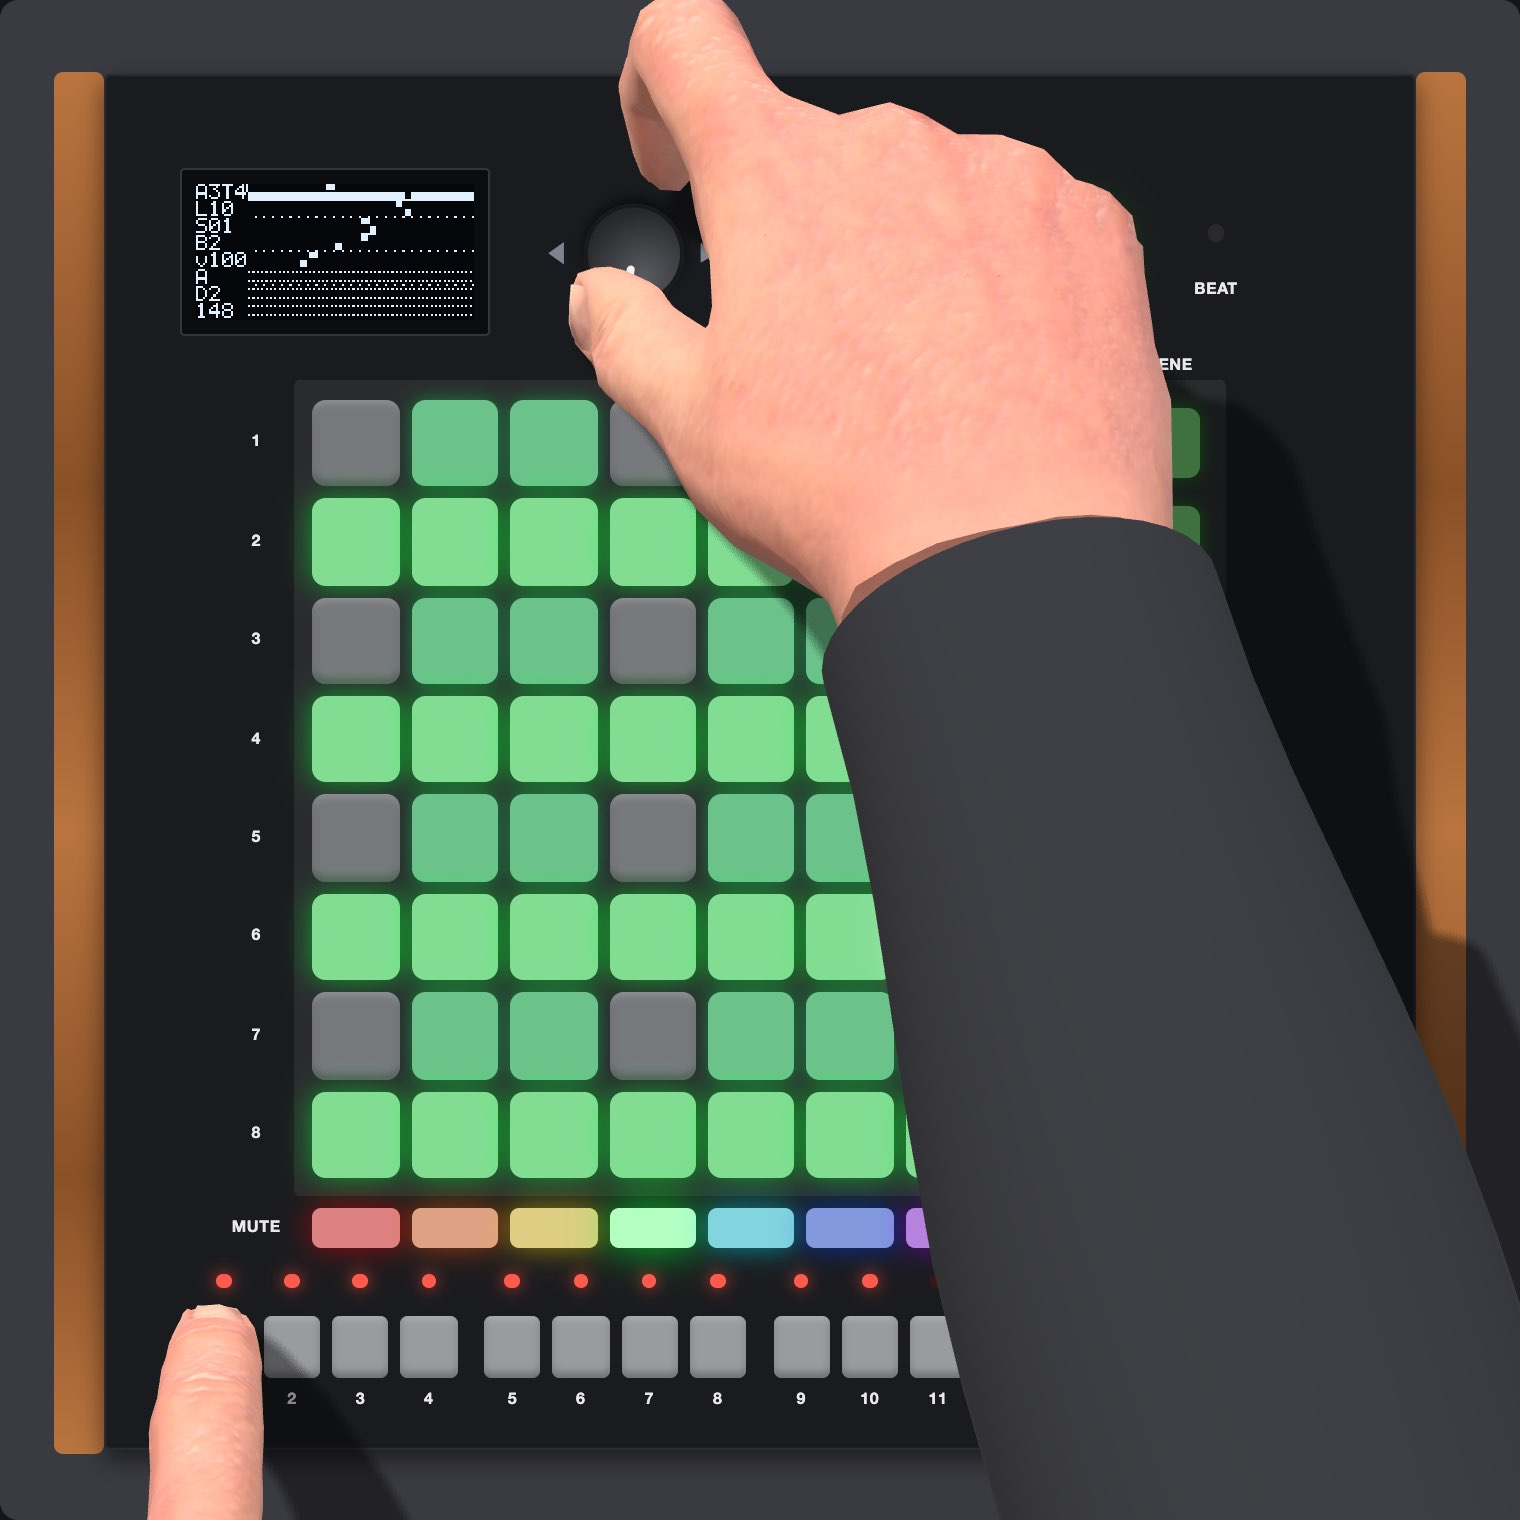
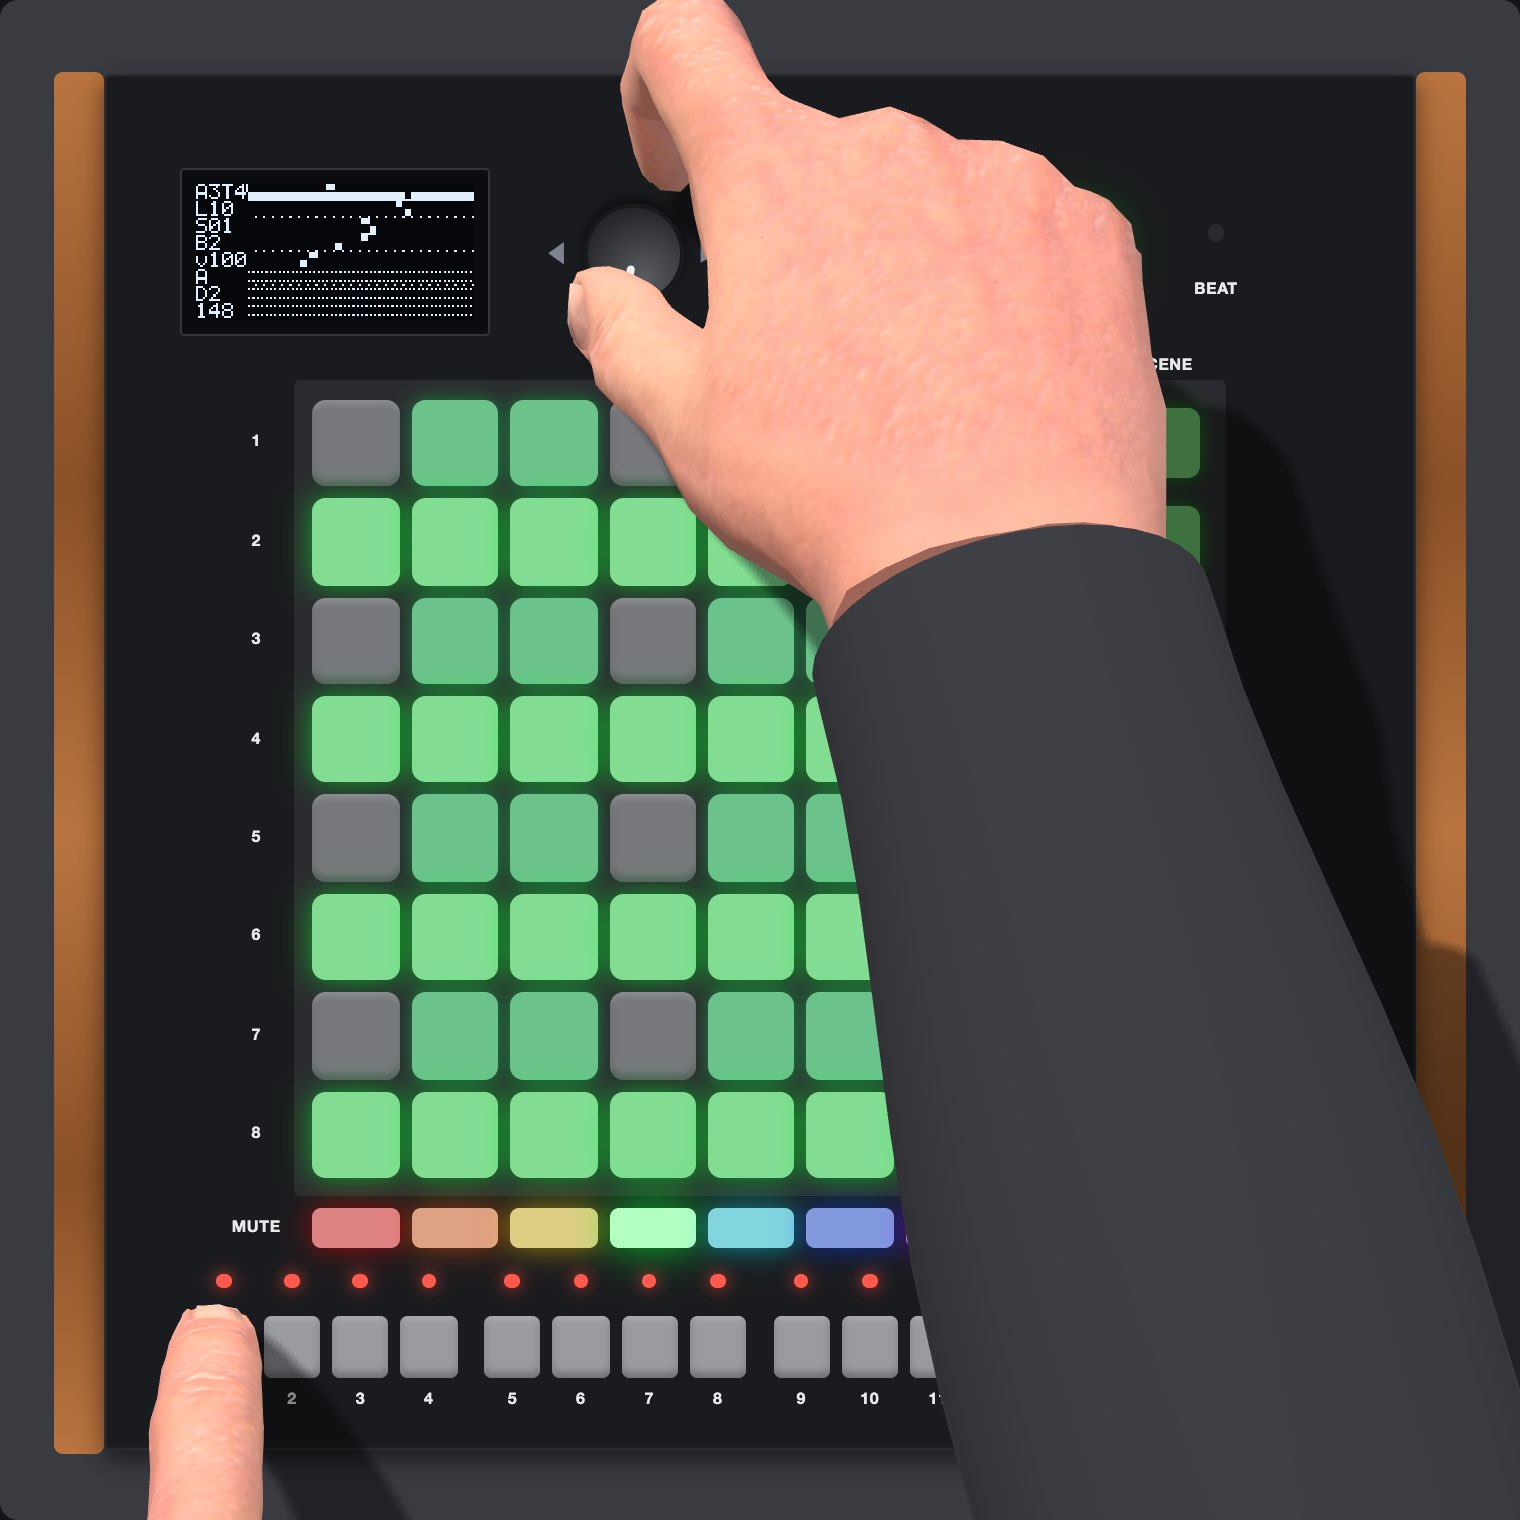
sim: hands: the frame cost and the pictures at the final code
Measured again over the same 60 s of a live set after the last fixes to
the hands: over HTTP no long task and the same frame times; from disk a
303 callback interval past 1.5 buffers in one of six runs with the hands,
none without, so the hands stay off by default there. The README gives
the new numbers, and says when the hands' build may run while the device
sounds (after a take-over or while the user plays). The hold-edit
screenshot and the GIF are recorded again at this code.

diff --git a/sim/README.md b/sim/README.md
@@ -205,8 +205,13 @@ set plays: when the box is first ticked during a set (the hands not built on
 the page yet), or the scripts arrive after "Сыграть" with the preparation
 skipped, the ring stays until the set ends or is stopped, and the hands are
 there from the next show on. Once built, unticking and ticking the box hides
-and shows them at once. A preparation and
-an idle page do not sound, so the build may run there.
+and shows them at once. The build waits for the artist's live set only:
+it may run in a preparation (silent, as it is played faster than real time)
+and on an idle page, and so also while the device sounds there, after a
+click on the panel has taken a set over (the artist stops, the sequencer
+plays on) or while the user plays the device. Its task then holds up the
+main thread once while the music plays, which may be heard (from disk the
+303s run on that thread).
 
 The checkbox "показывать руки" in the artist's card shows and hides them,
 and the browser keeps the choice. Until it is first changed it is ticked,
@@ -235,35 +240,24 @@ The frame cost was measured on an Apple M1 (headless Chrome 157, WebGL
 through ANGLE on Metal), the page at 1500 × 1000 and a pixel ratio of 2, the
 sound on, over 60 s of a live set with pad launches, two MUTE pairs and held
 steps edited with the encoder (the fw2 score, song 3), with and without the
-hands, three to six runs each:
+hands, three runs each over HTTP and six from disk:
 
 - Over HTTP the hands take 0.1 ms of the main thread per frame (median; p99
   1 ms) and draw about one frame in four. Frame times are the same with and
   without them (median 16.7 ms, p95 16.8 ms), and no task over 50 ms came in
-  that minute in any run, from disk either. The heaviest frames, 8–11 ms,
+  that minute in any run, from disk either. The heaviest frames, 10–11 ms,
   are the first poses of a pinch or of held steps, when the fingers are
   fitted to them for the first time.
-- From disk the 303s' callbacks (every 21.3 ms) came at worst 24.4–28.4 ms
-  apart without the hands and 29.6–33.3 ms with them, the late ones always at
-  those first poses. Over six runs each, 3 intervals passed 32 ms (1.5
-  buffers; 32.4–33.3 ms) in 2 of the 6 runs with the hands (2 in one run, 1
-  in another), none in the runs without them. Hence the hands off by default
-  there.
-- On a busier machine (load average 7–14) a run from disk with the box
-  ticked had 14 intervals between callbacks over 32 ms, the worst 48 ms, at
-  the same first poses. Of three runs from disk without the hands then, two
-  had none and one had 5, all from one stall of the machine itself (the
-  worst 135 ms, with no hands loaded).
-- Once per page, building the hands after the device is up is one task of
-  0.2–0.3 s, its warm-up (shaders compiled, textures uploaded) included, and
-  never inside a live set (see above); planning a show takes 13–16 ms at its
-  start.
-- These runs predate the clearance of every fingertip vertex (the fingertips'
-  sides kept out of the keys too). With it the driver alone (in Node, posing
-  the same stretch every 16.7 ms) takes 0.036 ms a pose once its keyframes
-  are fitted instead of 0.030 (p99 0.20 ms instead of 0.15), and the first
-  poses of a keyframe are as heavy as before (the same 11 over 4 ms, at most
-  11–12 ms).
+- From disk the 303s' callbacks (every 21.3 ms) came at worst 24.1–26.7 ms
+  apart without the hands and 27.5–33.6 ms with them, the late ones at those
+  first poses. One interval passed 32 ms (1.5 buffers): 33.6 ms, in one of
+  the six runs with the hands; none did in the runs without them. (An
+  earlier round, before the last fixes to the hands, had 3 such intervals
+  in 2 of 6 runs with the hands, none without.) Hence the hands off by
+  default there.
+- Once per page, building the hands is one task of 0.2–0.3 s, its warm-up
+  (shaders compiled, textures uploaded) included, and never inside a live
+  set (see above); planning a show takes 13–18 ms at its start.
 
 Where the hands come from:
 
